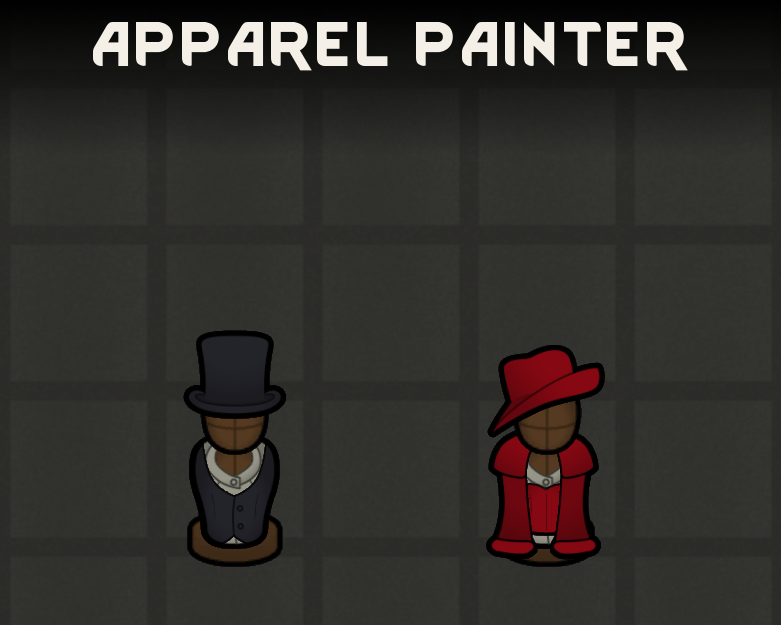
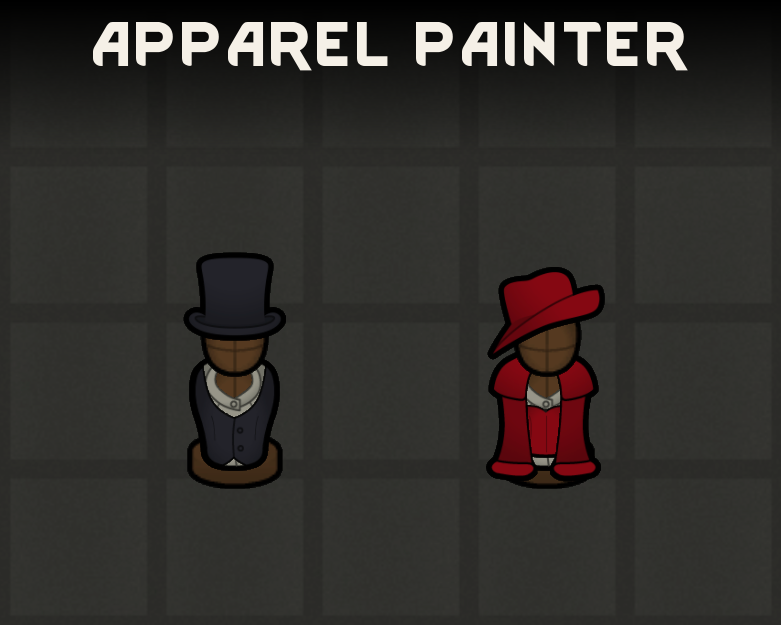
💄 Re-frame the preview family half a tile up

Changed region(s): [[0.6146, 0.4256, 0.799, 0.912], [0.2151, 0.3952, 0.3688, 0.912]]

diff --git a/media/README.md b/media/README.md
@@ -433,6 +433,18 @@ finally landed as the untitled window crops
 (media/gallery-wardrobe-before/after.png). Masters in
 `~/Movies/apparel-painter-dusk-2026-08-29/take1-jacketless/`.
 
+RE-FRAMED HALF A TILE UP (2026-08-30, principal: the pair sat too
+close to the bottom edge): same masters, the 5×4 window drops half a
+tile in screen space — `-crop 781x625+312+312` (y 234 → 312) — so the
+stands gain a full clean tile below their bases and both horizontal
+edges now land ON grid lines (the edge rule's other legal cut; the
+old frame used panel midlines). Overlay reused as-is; morph chain,
+palettegen diff + bayer and gifsicle lossy 60 identical; outputs land
+at the same budgets (flip 242 KB, static 308 KB) and About/Preview.png
+keeps its GIF89a bytes. Intermediates in
+`take1-jacketless/recenter-halfup/`; the 08-29 framing's candidates
+stay beside the masters for lineage.
+
 ### cards/card-faq.png (2026-08-29)
 
 Text card, no capture: the SIBLING's card-faq export page with our
